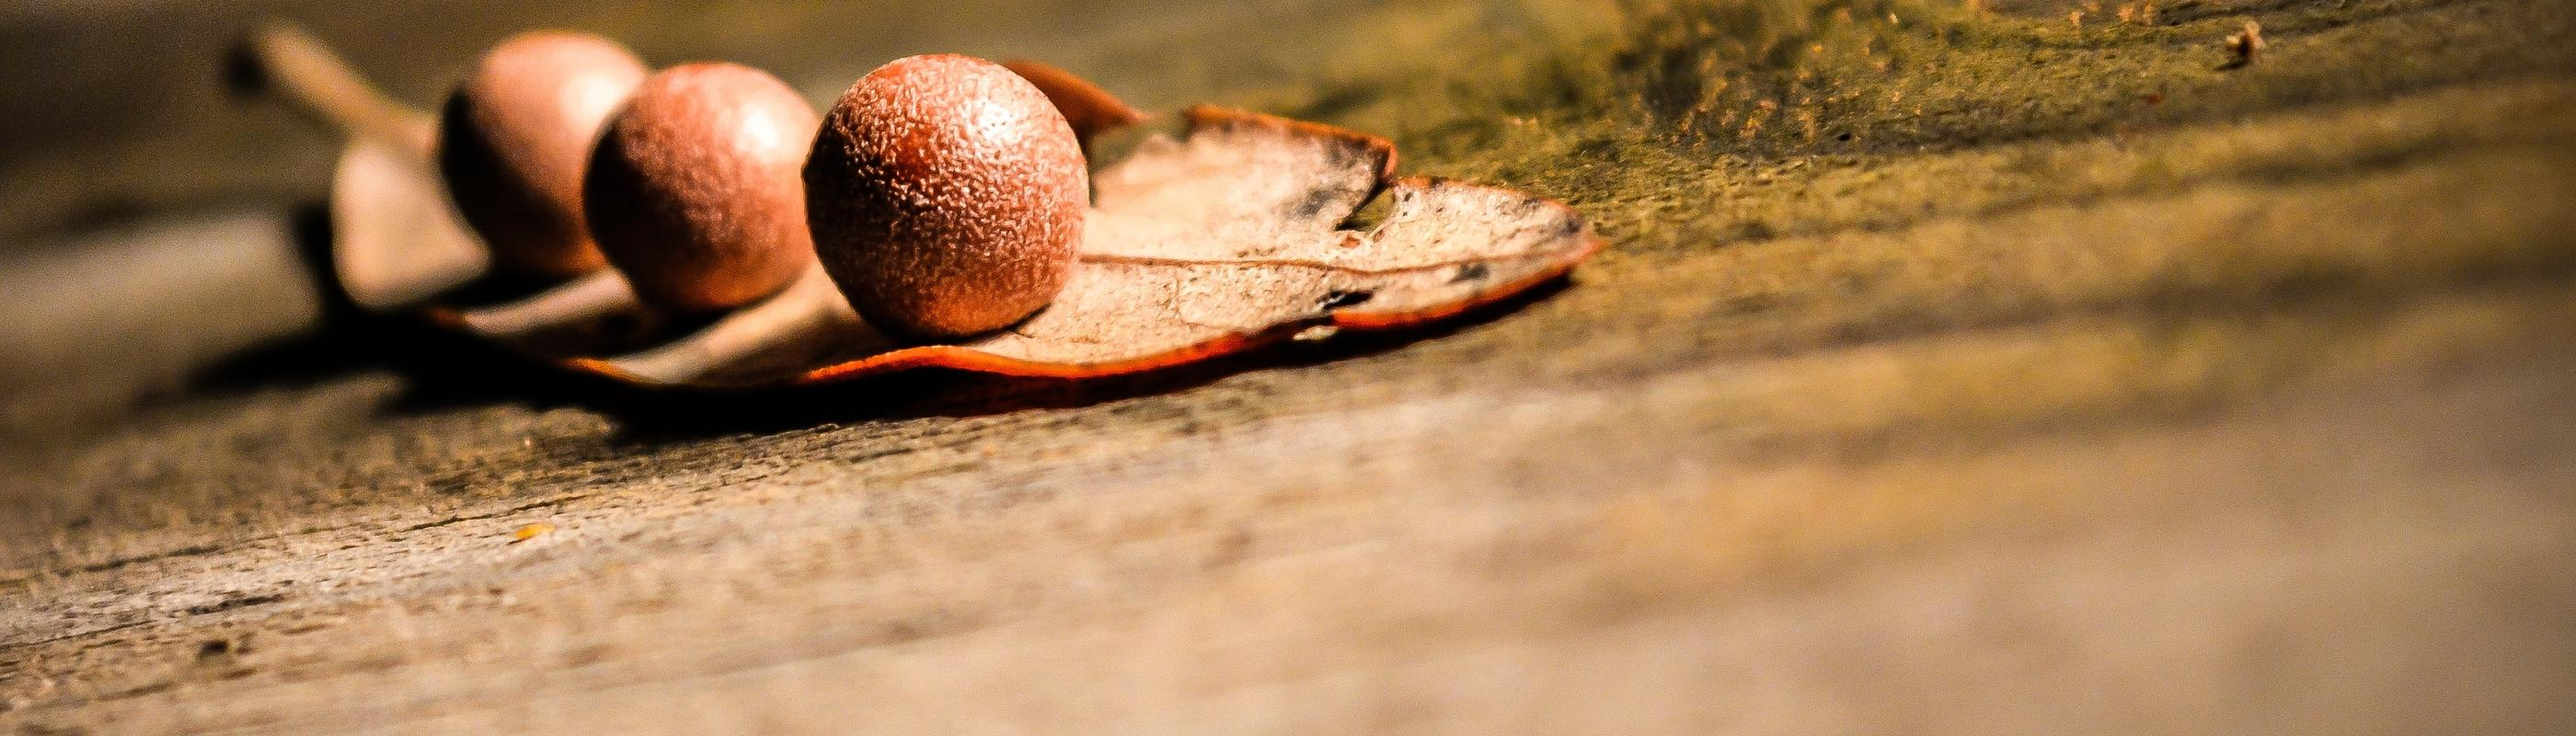
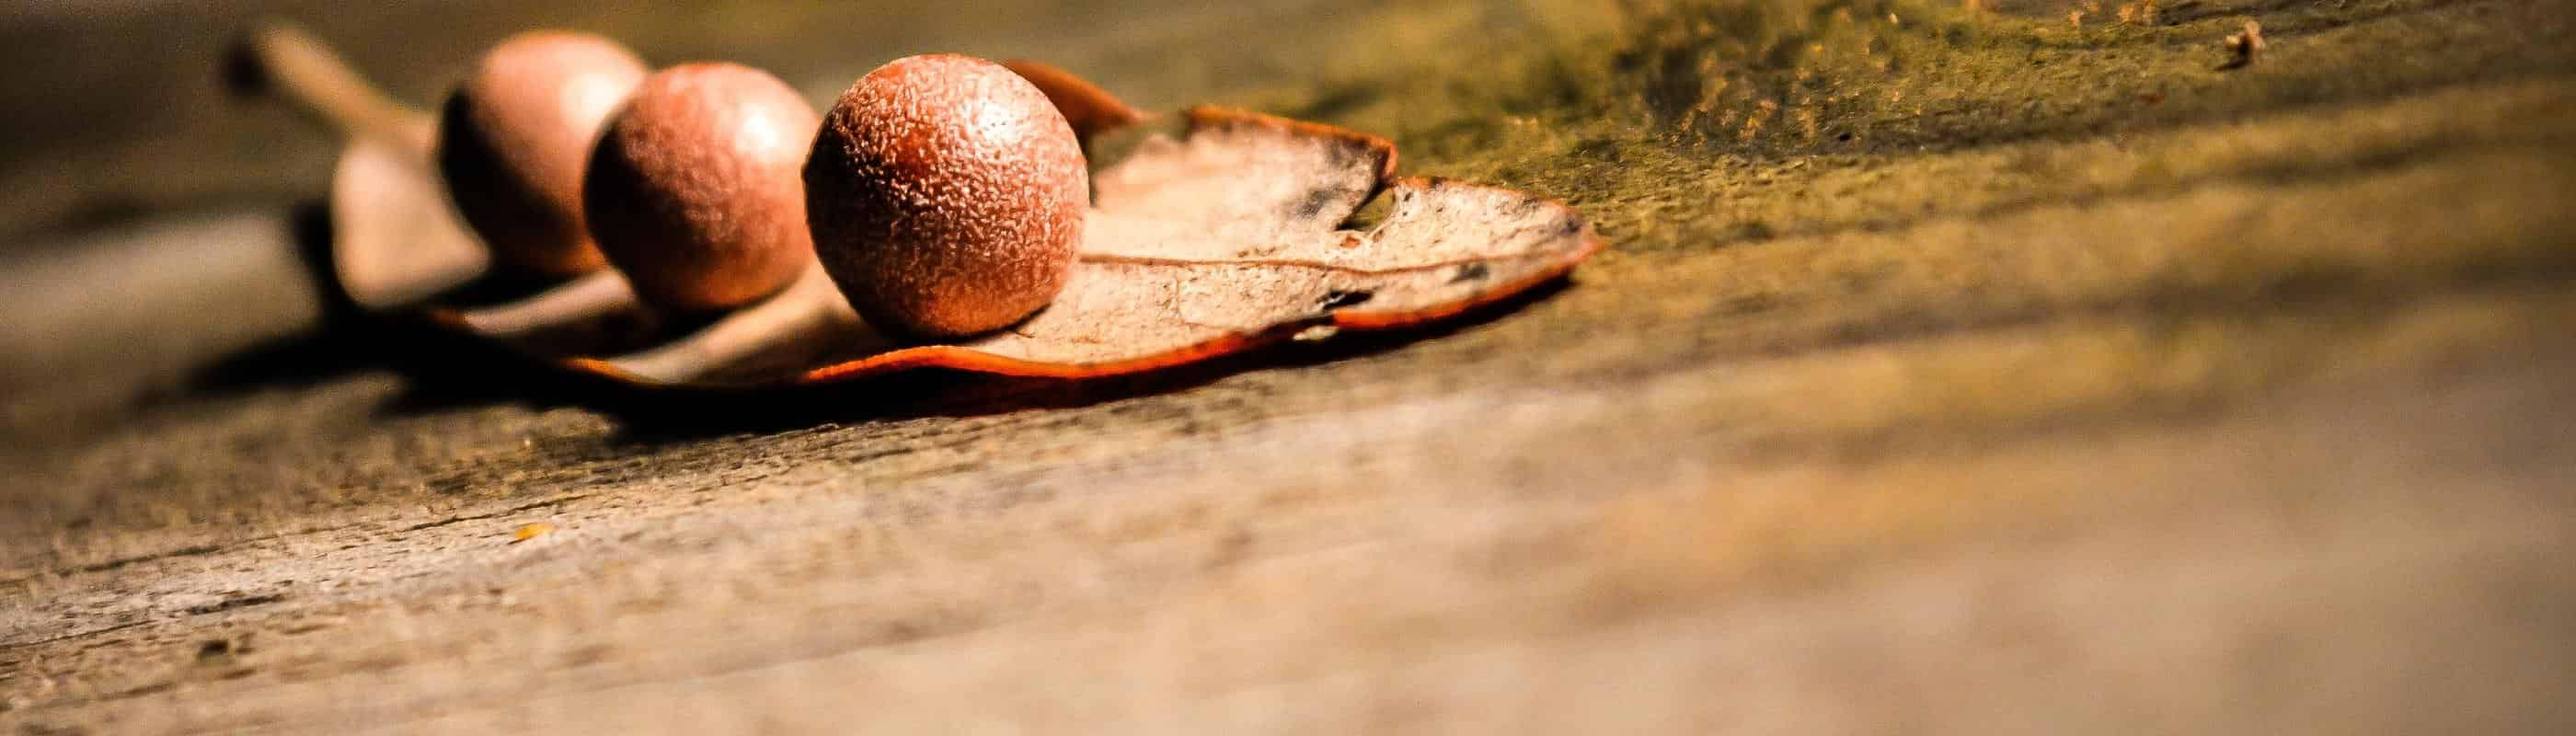
optimized all images

Changed region(s): [[0.3418, 0.25, 0.4039, 0.3438]]

diff --git a/src/components/cards/Card.js b/src/components/cards/Card.js
@@ -1,4 +1,6 @@
 import React from "react";
+import pattern_grayscale_card from "../../assets/images/pattern_grayscale_card.jpg";
+import compass_card from "../../assets/images/compass_card.jpg";
 import styles from "./Card.module.css";
 
 const Card = () => {
@@ -8,7 +10,7 @@ const Card = () => {
         <div className="col-lg-6 col-sm-12 p-1">
           <div className={`card shadow-sm ${styles.card} `}>
             <img
-              src="https://picsum.photos/600/400?blur"
+              src={pattern_grayscale_card}
               className="card-img-top"
               alt="..."
             />
@@ -24,11 +26,7 @@ const Card = () => {
         </div>
         <div className="col-lg-6 col-sm-12 p-1">
           <div className={`card shadow-sm ${styles.card} `}>
-            <img
-              src="https://picsum.photos/600/400?grayscale"
-              className="card-img-top"
-              alt="..."
-            />
+            <img src={compass_card} className="card-img-top" alt="..." />
             <div className="card-body my-3 mx-2">
               <h5 className="card-title">Card title</h5>
               <p className="card-text">

diff --git a/src/components/whatIs/WhatIs.js b/src/components/whatIs/WhatIs.js
@@ -1,8 +1,9 @@
 import React, { useEffect } from "react";
-import styles from "./WhatIs.module.css";
 import van_grayscale from "../../assets/images/van_grayscale.jpg";
 import rows from "../../assets/images/rows.jpg";
 import desktop from "../../assets/images/desktop.jpg";
+import styles from "./WhatIs.module.css";
+
 // import Aos from "aos";
 // import "aos/dist/aos.css";
 

diff --git a/src/App.js b/src/App.js
@@ -1,6 +1,5 @@
 import React, { useEffect } from "react";
 import styles from "./App.module.css";
-import DarkMode from "./components/dark-mode/DarkMode";
 import "./App.css";
 import "bootstrap/dist/css/bootstrap.min.css";
 import { Routes, Route } from "react-router-dom";

diff --git a/src/components/header/Nav.js b/src/components/header/Nav.js
@@ -1,6 +1,6 @@
 import React from "react";
-import "./Nav.css";
 import Steelman_Logo from "../../assets/images/Steelman_Logo.png";
+import "./Nav.css";
 import "bootstrap/js/src/collapse.js";
 
 import { Link } from "react-router-dom";
